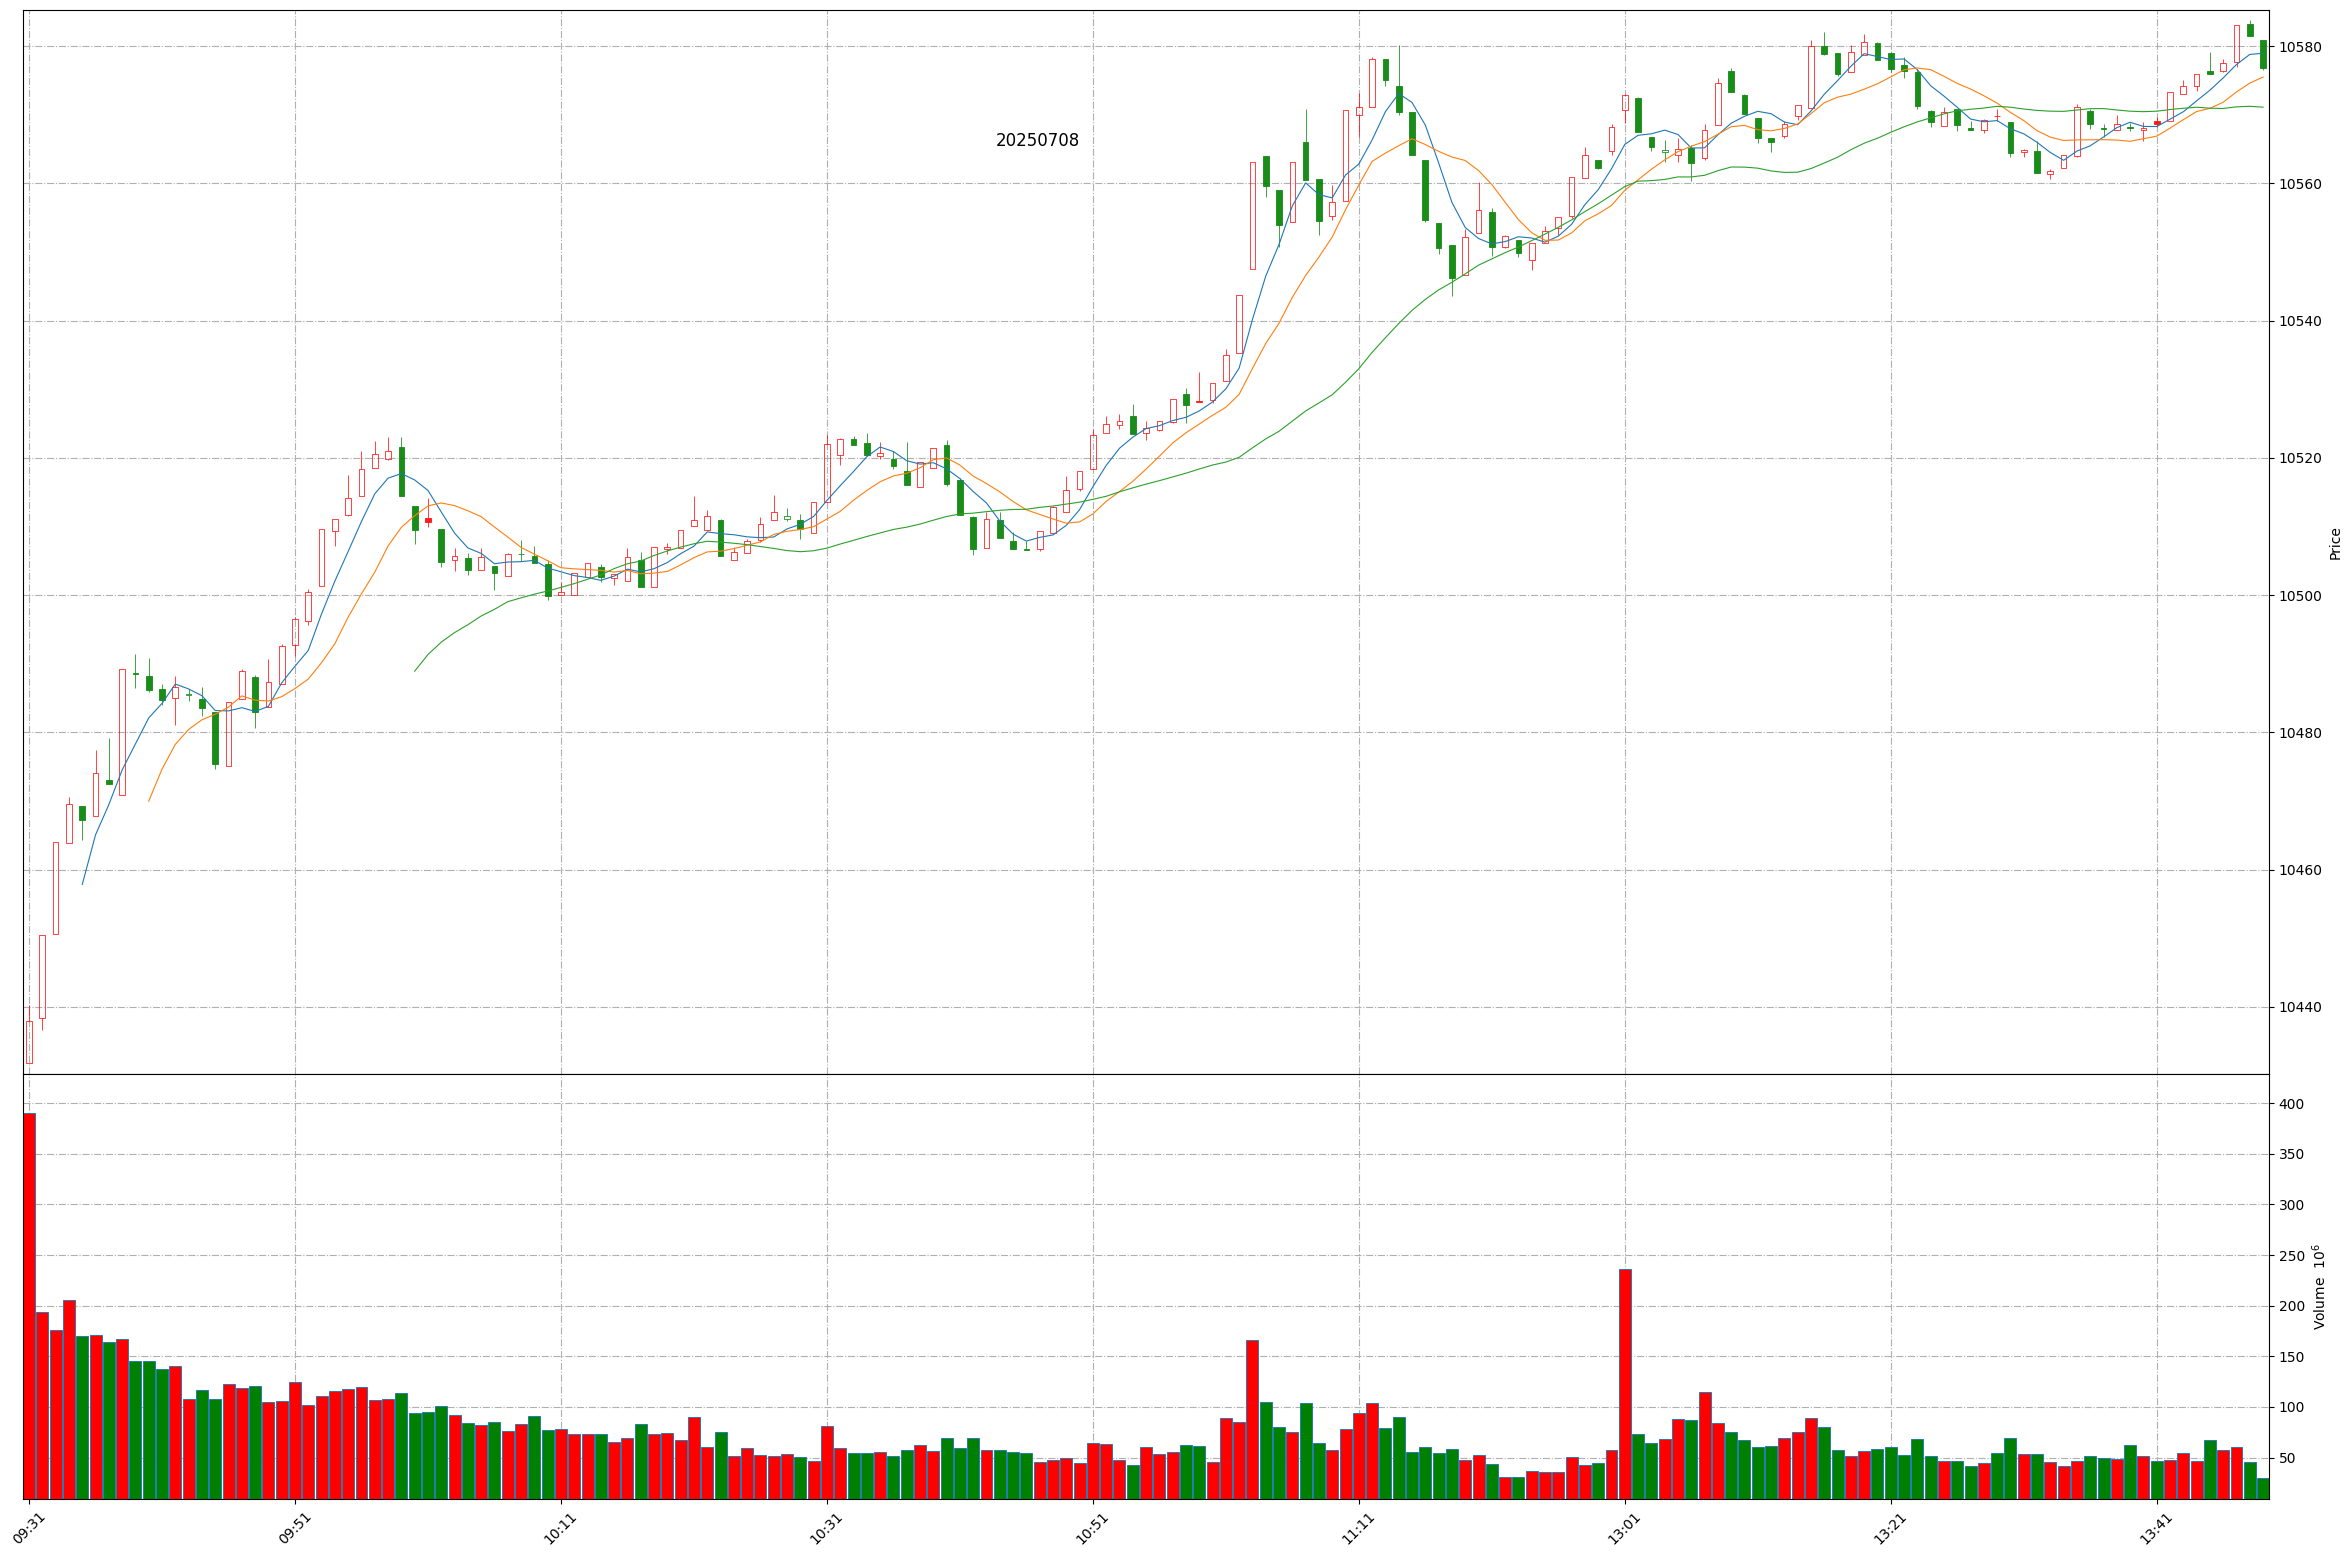
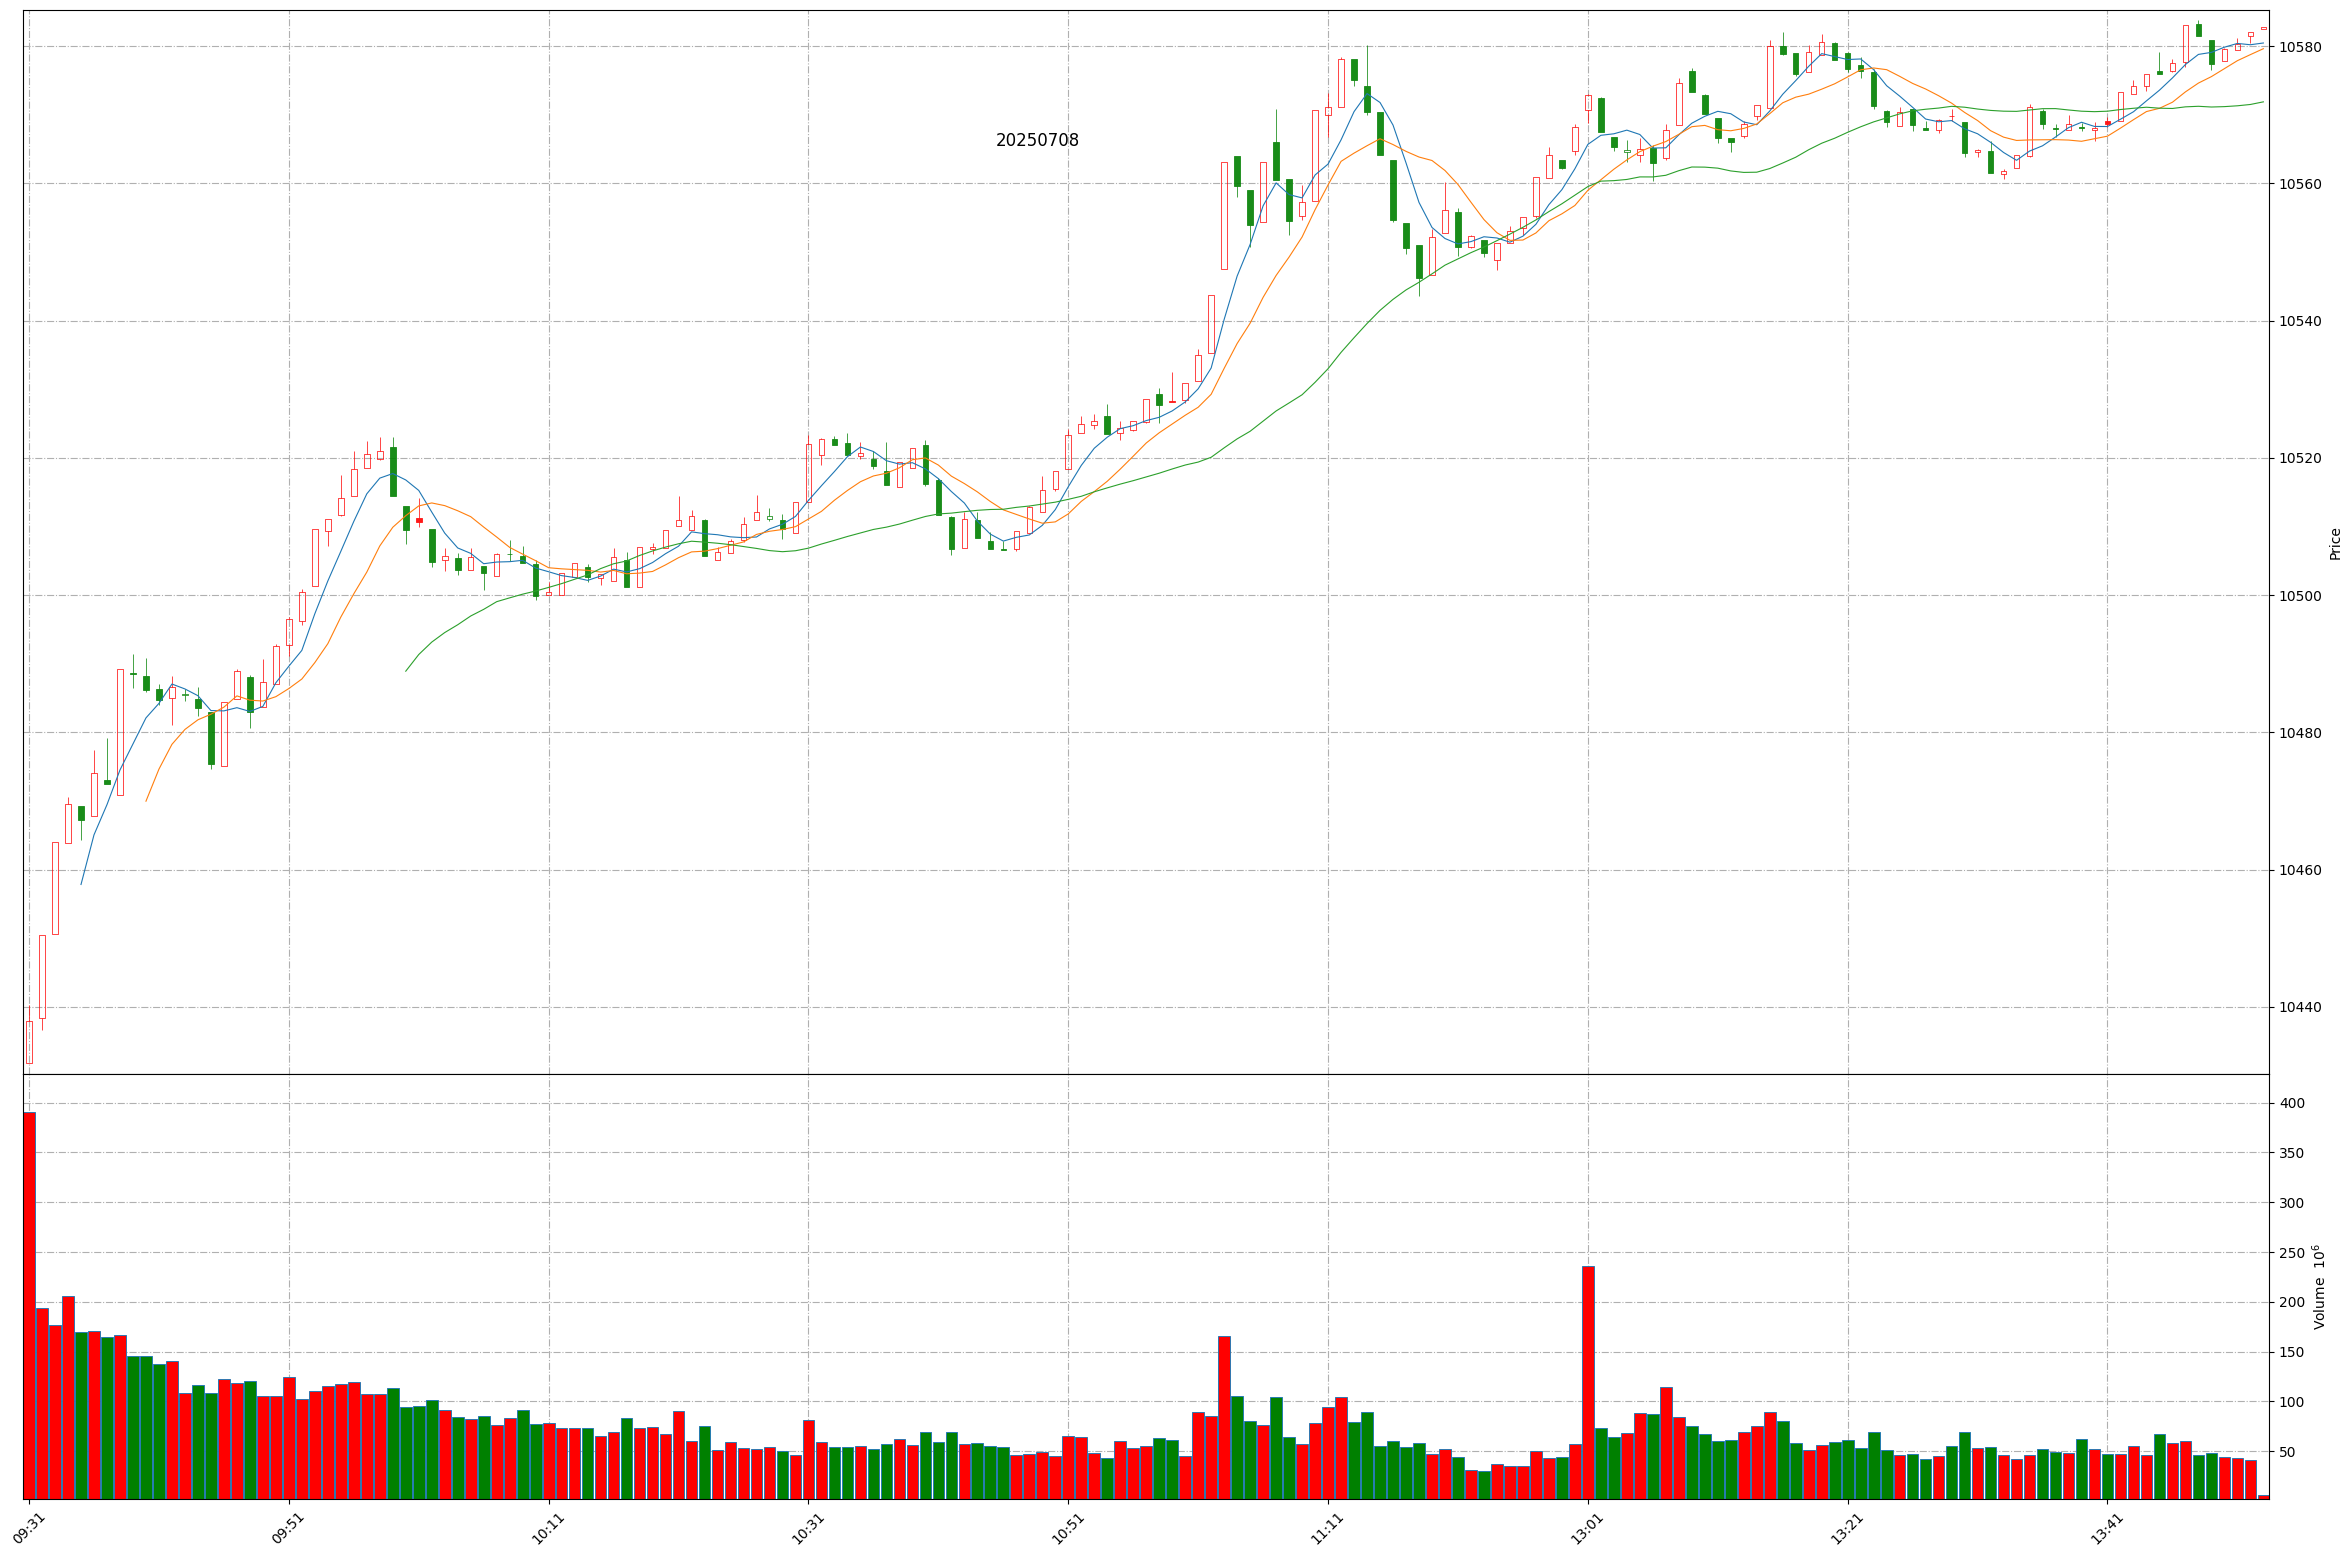
Github action update at 2025-07-08 13:52:24.

diff --git a/README.md b/README.md
@@ -1,11 +1,11 @@
 
 # Daily-A-share-market-quotes 每日 A 股指数（5min 更新）- 20250708
 
-### 上证指数 20250708 13:48
+### 上证指数 20250708 13:52
 ![](./fig/2025/7/20250708-sh000001.png)
 
-### 深证成指 20250708 13:48
+### 深证成指 20250708 13:52
 ![](./fig/2025/7/20250708-sz399001.png)
 
-### 北证50 20250708 13:48
+### 北证50 20250708 13:52
 ![](./fig/2025/7/20250708-bj899050.png)
